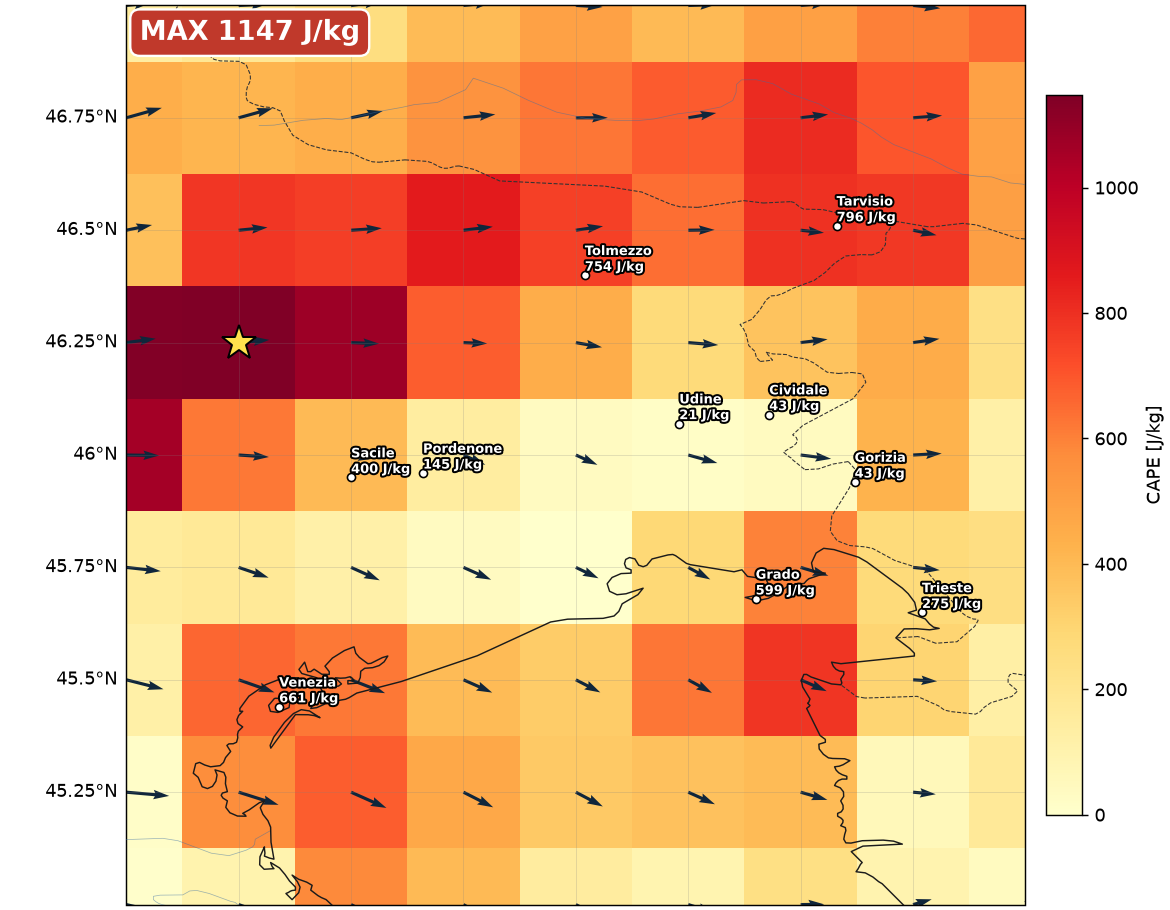
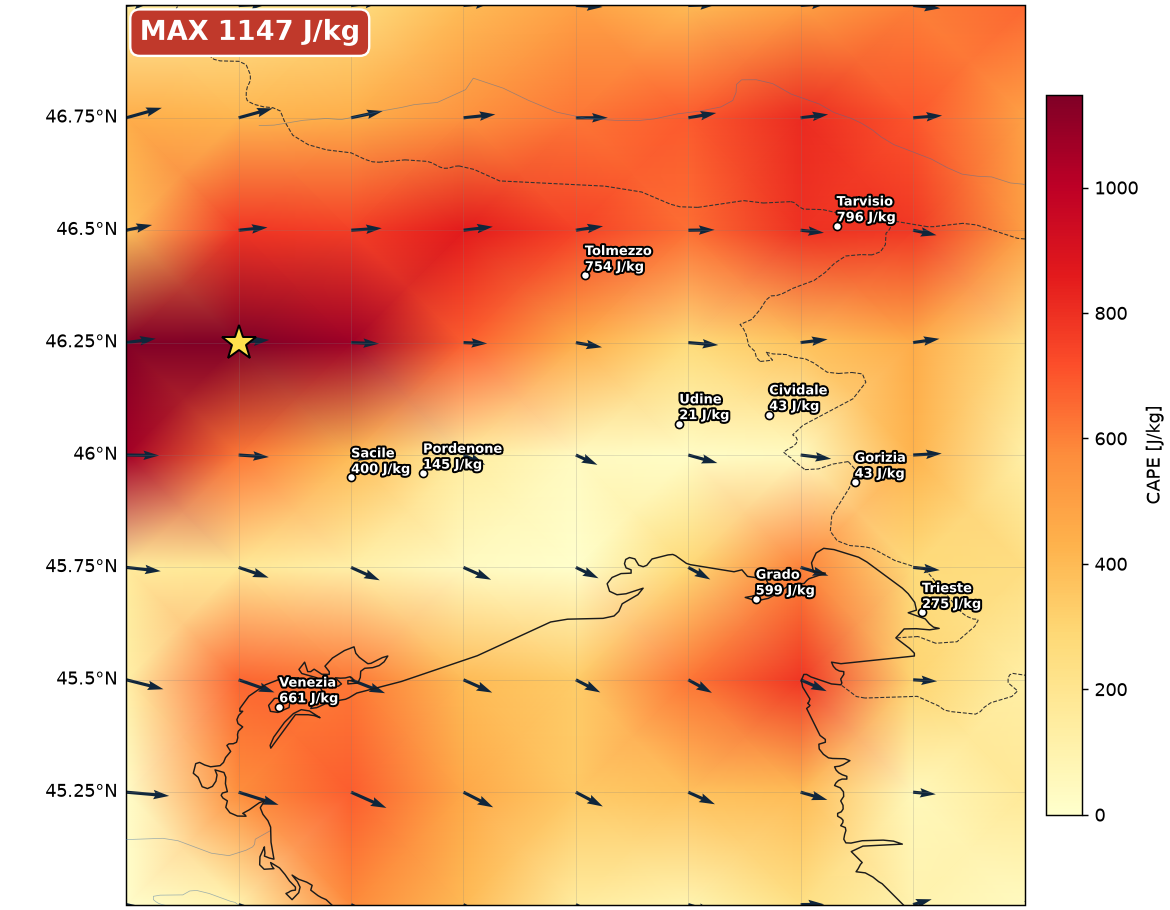
feat(MeteoGrib): mappe sfumate (interpolate) al posto dei blocchi
Le mappe ora interpolano tra i punti di griglia, per un aspetto realistico da
carta meteo invece dell'effetto 'scacchiera':

- Python: pcolormesh passa da shading='auto' a shading='gouraud' su tutte le
  mappe (campo, vento, shear, temporali).
- C++: nuovo renderer con interpolazione bilineare per-pixel (con gestione
  dei NaN via media pesata dei punti validi). Reticolo disattivato di default
  per un risultato piu' pulito.
- GUI: nuova casella 'Sfuma (interpola)'; 'Griglia' ora spenta di default.
- CLI: nuovi flag --no-smooth e --grid per il comando plot.

Esempi aggiornati con la resa sfumata.

Claude-Session: https://claude.ai/code/session_019DZ5QHcGJWWLZY7iWbL9et

diff --git a/Projects/coded/MeteoGrib/cpp/include/render.h b/Projects/coded/MeteoGrib/cpp/include/render.h
@@ -28,9 +28,30 @@ inline const std::vector<City>& cities() {
 struct RenderOpts {
     bool showCities = true;
     bool showMax    = true;
-    bool showGrid   = true;
+    bool showGrid   = false;  // reticolo sopra il campo (spento = più realistico)
+    bool smooth     = true;   // interpolazione bilineare (mappa sfumata)
     int  width      = 1000;   // larghezza immagine desiderata
 };
+
+// Valore interpolato bilinearmente alla posizione frazionaria (fi, fj) della
+// griglia.  Gestisce i NaN facendo la media pesata dei soli punti validi.
+inline double sampleBilinear(const GribField& g, double fi, double fj) {
+    int i0 = (int)std::floor(fi), j0 = (int)std::floor(fj);
+    double ti = fi - i0, tj = fj - j0;
+    int ni = (int)g.ni, nj = (int)g.nj;
+    int i1 = std::min(i0 + 1, ni - 1), j1 = std::min(j0 + 1, nj - 1);
+    i0 = std::max(0, std::min(i0, ni - 1));
+    j0 = std::max(0, std::min(j0, nj - 1));
+    auto V = [&](int j, int i){ return g.values[size_t(j)*ni + i]; };
+    double v00=V(j0,i0), v01=V(j0,i1), v10=V(j1,i0), v11=V(j1,i1);
+    double w00=(1-ti)*(1-tj), w01=ti*(1-tj), w10=(1-ti)*tj, w11=ti*tj;
+    double sw=0, sv=0;
+    if (!std::isnan(v00)){ sv+=w00*v00; sw+=w00; }
+    if (!std::isnan(v01)){ sv+=w01*v01; sw+=w01; }
+    if (!std::isnan(v10)){ sv+=w10*v10; sw+=w10; }
+    if (!std::isnan(v11)){ sv+=w11*v11; sw+=w11; }
+    return sw > 0 ? sv/sw : std::nan("");
+}
 
 inline RGB pickColor(Kind k, double t) {
     switch (k) {
@@ -75,14 +96,29 @@ inline Image renderField(const GribField& g, Kind k, const RenderOpts& o) {
     double span = (g.vmax - g.vmin);
     if (span <= 0) span = 1;
     double cellW = double(plotW)/g.ni, cellH = double(plotH)/g.nj;
-    for (long j=0;j<g.nj;++j){
-        for (long i=0;i<g.ni;++i){
-            double v = g.values[size_t(j)*g.ni + i];
-            RGB col = std::isnan(v) ? RGB{60,60,60}
-                                    : pickColor(k, (v-g.vmin)/span);
-            int x0 = mL + int(i*cellW),     x1 = mL + int((i+1)*cellW)-1;
-            int y0 = mT + int(j*cellH),     y1 = mT + int((j+1)*cellH)-1;
-            img.fillRect(x0,y0,x1,y1,col);
+    if (o.smooth && g.ni > 1 && g.nj > 1) {
+        // resa sfumata: ogni pixel è interpolato tra i 4 punti di griglia
+        // vicini, così sparisce l'effetto "scacchiera"
+        for (int py = mT; py < mT+plotH; ++py) {
+            double fj = double(py-mT)/std::max(1,plotH-1) * (g.nj-1);
+            for (int px = mL; px < mL+plotW; ++px) {
+                double fi = double(px-mL)/std::max(1,plotW-1) * (g.ni-1);
+                double v = sampleBilinear(g, fi, fj);
+                img.set(px, py, std::isnan(v) ? RGB{60,60,60}
+                                              : pickColor(k, (v-g.vmin)/span));
+            }
+        }
+    } else {
+        // resa a blocchi (un colore per cella)
+        for (long j=0;j<g.nj;++j){
+            for (long i=0;i<g.ni;++i){
+                double v = g.values[size_t(j)*g.ni + i];
+                RGB col = std::isnan(v) ? RGB{60,60,60}
+                                        : pickColor(k, (v-g.vmin)/span);
+                int x0 = mL + int(i*cellW),     x1 = mL + int((i+1)*cellW)-1;
+                int y0 = mT + int(j*cellH),     y1 = mT + int((j+1)*cellH)-1;
+                img.fillRect(x0,y0,x1,y1,col);
+            }
         }
     }
     if (o.showGrid) {

diff --git a/Projects/coded/MeteoGrib/meteogrib.py b/Projects/coded/MeteoGrib/meteogrib.py
@@ -431,7 +431,7 @@ def plot_message(m: Message, out: str, title_extra: str = ""):
         ax.clabel(cs, inline=True, fontsize=7, fmt="%d")
         cbar = fig.colorbar(cf, ax=ax, shrink=0.8, pad=0.02)
     else:
-        mesh = ax.pcolormesh(lons, lats, data, cmap=st["cmap"], shading="auto", **tk)
+        mesh = ax.pcolormesh(lons, lats, data, cmap=st["cmap"], shading="gouraud", **tk)
         cbar = fig.colorbar(mesh, ax=ax, shrink=0.8, pad=0.02)
     cbar.set_label(f"{m.short_name}  [{st['unit'] or m.units}]")
 
@@ -462,7 +462,7 @@ def plot_wind(mu: Message, mv: Message, out: str):
     speed = np.hypot(mu.values, mv.values)
     fig, ax, proj = _make_geo_fig(_extent_of(mu))
     tk = {"transform": proj} if proj is not None else {}
-    mesh = ax.pcolormesh(mu.lons, mu.lats, speed, cmap="YlOrRd", shading="auto", **tk)
+    mesh = ax.pcolormesh(mu.lons, mu.lats, speed, cmap="YlOrRd", shading="gouraud", **tk)
     cbar = fig.colorbar(mesh, ax=ax, shrink=0.8, pad=0.02)
     cbar.set_label("velocità vento [m/s]")
     # sottocampioniamo le frecce puntando a ~18 per lato, così restano
@@ -511,7 +511,7 @@ def plot_shear(hi: Message, hv: Message, lo: Message, lv: Message, out: str):
 
     fig, ax, proj = _make_geo_fig(_extent_of(hi))
     tk = {"transform": proj} if proj is not None else {}
-    mesh = ax.pcolormesh(hi.lons, hi.lats, shear, cmap="BuPu", shading="auto", **tk)
+    mesh = ax.pcolormesh(hi.lons, hi.lats, shear, cmap="BuPu", shading="gouraud", **tk)
     cbar = fig.colorbar(mesh, ax=ax, shrink=0.8, pad=0.02)
     cbar.set_label("wind shear [m/s]")
     sy, sx = _quiver_step(shear.shape)
@@ -547,7 +547,7 @@ def plot_storm(cape: Message, du, dv, out: str):
     fig, ax, proj = _make_geo_fig(_extent_of(cape))
     tk = {"transform": proj} if proj is not None else {}
     mesh = ax.pcolormesh(cape.lons, cape.lats, cape.values,
-                         cmap="YlOrRd", shading="auto", **tk)
+                         cmap="YlOrRd", shading="gouraud", **tk)
     cbar = fig.colorbar(mesh, ax=ax, shrink=0.8, pad=0.02)
     cbar.set_label("CAPE [J/kg]")
     sy, sx = _quiver_step(cape.values.shape)

diff --git a/Projects/coded/MeteoGrib/cpp/src/meteogrib_gui.cpp b/Projects/coded/MeteoGrib/cpp/src/meteogrib_gui.cpp
@@ -38,7 +38,7 @@ static const char* GH_API =
 enum {
     IDC_OPEN = 101, IDC_SAVEBMP, IDC_SAVECSV,
     IDC_LIST, IDC_CHK_CITIES, IDC_CHK_MAX, IDC_CHK_GRID, IDC_STATUS, IDC_ABOUT,
-    IDC_UPDATE
+    IDC_UPDATE, IDC_CHK_SMOOTH
 };
 
 static const char* ABOUT_TEXT =
@@ -337,9 +337,11 @@ static LRESULT CALLBACK WndProc(HWND w, UINT msg, WPARAM wp, LPARAM lp) {
         CreateWindowA("BUTTON","Badge del massimo",WS_CHILD|WS_VISIBLE|BS_AUTOCHECKBOX,
                       10,y,200,22,w,(HMENU)IDC_CHK_MAX,0,0);
         CheckDlgButton(w,IDC_CHK_MAX,BST_CHECKED); y+=26;
+        CreateWindowA("BUTTON","Sfuma (interpola)",WS_CHILD|WS_VISIBLE|BS_AUTOCHECKBOX,
+                      10,y,200,22,w,(HMENU)IDC_CHK_SMOOTH,0,0);
+        CheckDlgButton(w,IDC_CHK_SMOOTH,BST_CHECKED); y+=26;
         CreateWindowA("BUTTON","Griglia",WS_CHILD|WS_VISIBLE|BS_AUTOCHECKBOX,
-                      10,y,200,22,w,(HMENU)IDC_CHK_GRID,0,0);
-        CheckDlgButton(w,IDC_CHK_GRID,BST_CHECKED); y+=32;
+                      10,y,200,22,w,(HMENU)IDC_CHK_GRID,0,0); y+=32;
         CreateWindowA("STATIC","Campi:",WS_CHILD|WS_VISIBLE,10,y,200,16,w,0,0,0); y+=20;
         g_list = CreateWindowA("LISTBOX","",
                       WS_CHILD|WS_VISIBLE|WS_VSCROLL|LBS_NOTIFY,
@@ -374,6 +376,9 @@ static LRESULT CALLBACK WndProc(HWND w, UINT msg, WPARAM wp, LPARAM lp) {
             rerender(w); break;
         case IDC_CHK_GRID:
             g_opts.showGrid = IsDlgButtonChecked(w,IDC_CHK_GRID)==BST_CHECKED;
+            rerender(w); break;
+        case IDC_CHK_SMOOTH:
+            g_opts.smooth = IsDlgButtonChecked(w,IDC_CHK_SMOOTH)==BST_CHECKED;
             rerender(w); break;
         case IDC_LIST:
             if (code == LBN_SELCHANGE) {

diff --git a/Projects/coded/MeteoGrib/cpp/src/meteogrib_cli.cpp b/Projects/coded/MeteoGrib/cpp/src/meteogrib_cli.cpp
@@ -30,6 +30,7 @@ static void usage() {
         "Uso:\n"
         "  meteogrib info    FILE\n"
         "  meteogrib plot    FILE --index N [--out X.bmp] [--no-cities] [--no-max]\n"
+        "                                    [--no-smooth] [--grid]\n"
         "  meteogrib export  FILE --index N [--out X.csv]\n"
         "  meteogrib auto    FILE [--outdir DIR]\n");
 }
@@ -87,6 +88,8 @@ int main(int argc, char** argv) {
         RenderOpts o;
         o.showCities = !hasFlag(argc,argv,"--no-cities");
         o.showMax    = !hasFlag(argc,argv,"--no-max");
+        o.smooth     = !hasFlag(argc,argv,"--no-smooth");
+        o.showGrid   =  hasFlag(argc,argv,"--grid");
         Image img = renderField(g, classify(g), o);
         std::string out = argVal(argc,argv,"--out",
                                  "campo_" + std::to_string(idx) + "_" + g.shortName + ".bmp");
